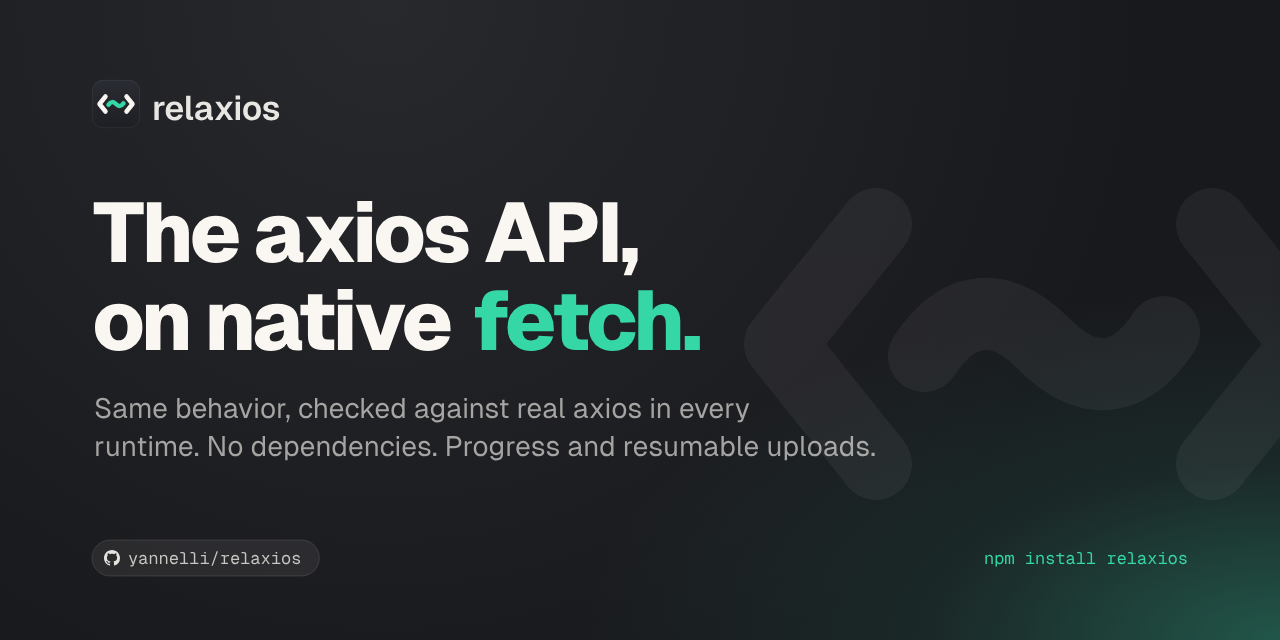
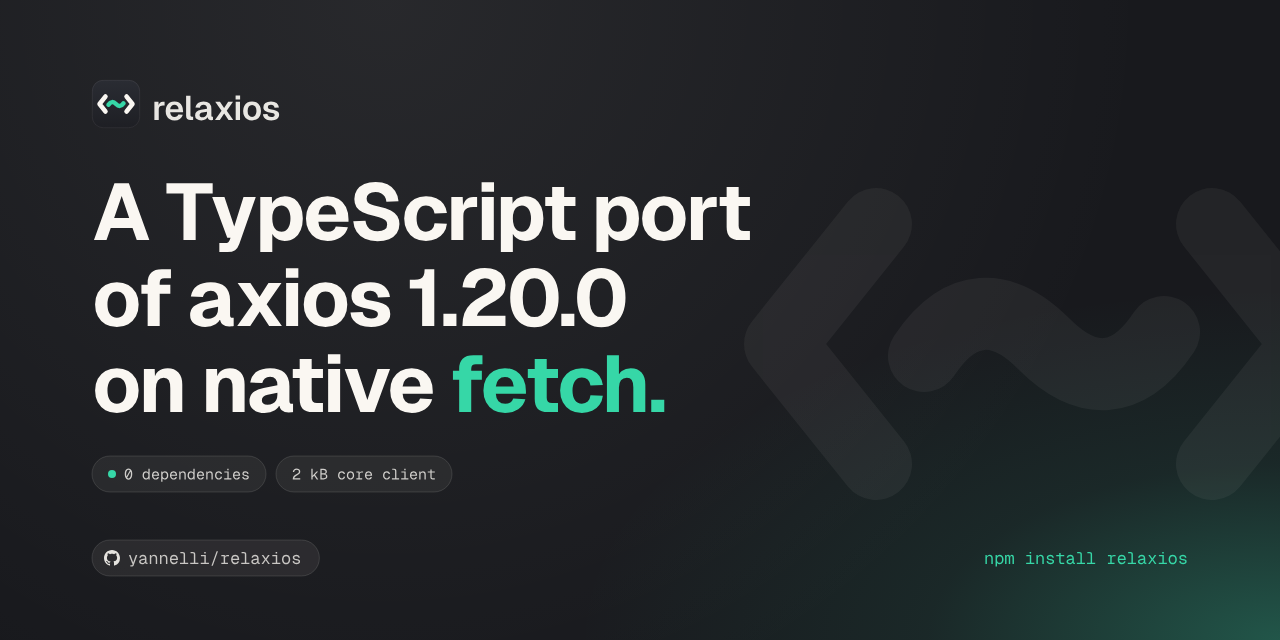
docs: use the package description as the image copy
The hero and social image now say "A TypeScript port of axios 1.20.0 on
native fetch" (from package.json) with chips for 0 dependencies and the
2 kB core client. Removes the old taglines and "resumable uploads".

Changed region(s): [[0.0625, 0.2812, 0.5938, 0.6562], [0.0625, 0.6875, 0.6875, 0.75]]

diff --git a/README.md b/README.md
@@ -1,5 +1,5 @@
 <p align="center">
-  <img src="docs/assets/hero.svg" alt="relaxios: HTTP for every JavaScript runtime, built on fetch" width="100%">
+  <img src="docs/assets/hero.svg" alt="relaxios: a TypeScript port of axios 1.20.0 on native fetch" width="100%">
 </p>
 
 # relaxios
